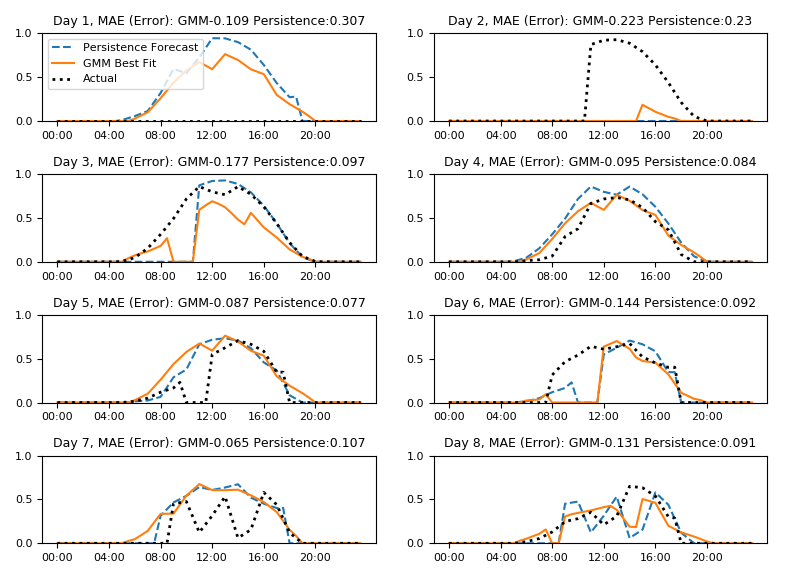
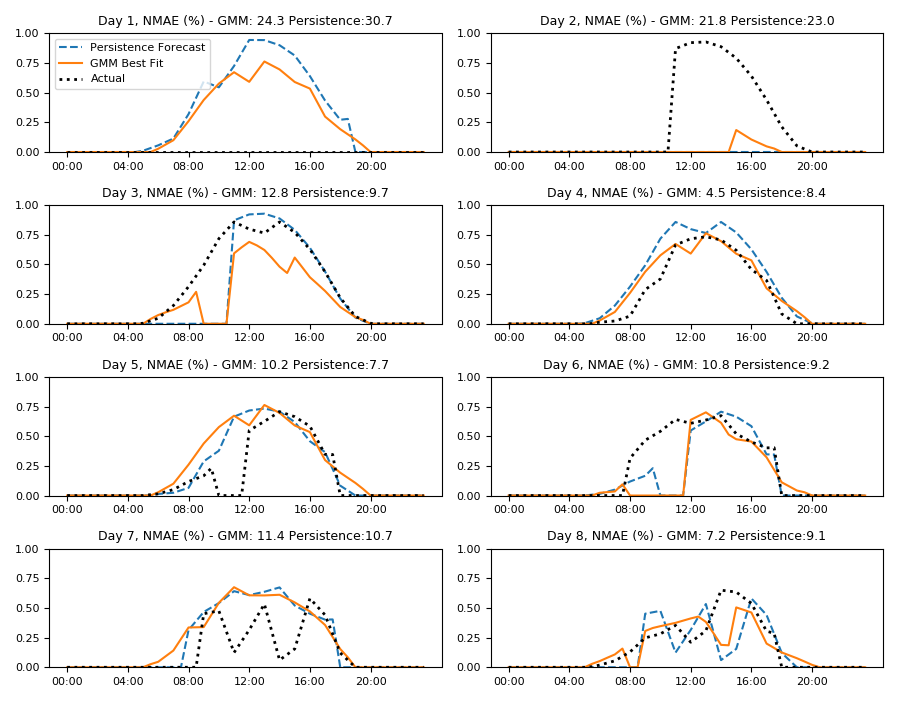
PV rev2

Changed region(s): [[0.0, 0.0, 0.9925, 0.9965], [0.812, 0.0934, 0.8421, 0.1246]]

diff --git a/Forecasting/forecasting.py b/Forecasting/forecasting.py
@@ -59,10 +59,10 @@ PV_DistsGMMWeights = pickle.load(pick_in)
 
 def forecasts(pred,true,Forecast_Type):
     if Forecast_Type=='Day Ahead':   
-        mae=mean_absolute_error(true, pred)
+        DA_Persistence_NMAE=mean_absolute_error(true, pred)
         #print('Persistence Day Ahead Weighted NMAE: ',round(mae,3))
     else:
-        mae=0
+        DA_Persistence_NMAE=0
     if (true.index[0].month==12) | (true.index[0].month<=2):      #Dec-Feb
         Season='WintDists'
     if (true.index[0].month>=3) & (true.index[0].month <=5):    #Mar-May
@@ -74,25 +74,28 @@ def forecasts(pred,true,Forecast_Type):
     
     ### fit the gaussian mixtures to the persistence forecast depending on season
     gmmMAE_Pred=pd.Series(index=range(0,len(PV_DistsGMMChosen[Season])))
+    
     for i in gmmMAE_Pred.index:
         gmmMAE_Pred[i]=mean_absolute_error(pred.values, PV_DistsGMMChosen[Season][i][0:len(pred)])
     
     gmmMAE_Pred=gmmMAE_Pred.sort_values()
-
+    ###### Choose Best Fit ##########
     GMMBestFit= PV_DistsGMMChosen[Season][gmmMAE_Pred.index[0]]#[0:Fits_Nmin]]
-    weights_bestFits=PV_DistsGMMWeights[Season][gmmMAE_Pred.index[0]]#:Fits_Nmin]]
-    weights_bestFits=weights_bestFits/weights_bestFits.sum()
-    #print('GMM ' +str(Forecast_Type)+ ' Weighted NMAE with '+str(Fits_Nmin)+' Fits: ',round(WeightedNMAE[Fits_Nmin],3))
+    ### NMAE for best fit ###########
+    GMM_NMAE = mean_absolute_error(true.values, GMMBestFit)
 
-    return GMMBestFit, gmmMAE_Pred[0],mae,Season
+    return GMMBestFit, GMM_NMAE, DA_Persistence_NMAE, Season
+
+#for h in true:
+#    pred[h]-true[h]
 
 #--------------------Visualise Forecast--------------------------#
 
     #Find best BMM fit
 def visualise_forecast(GMMBestFit,Forecast_Type,Day,GMM_NMAE,Persistence_NMAE):
-    plt.title('Day '+str(Day+1)+', MAE (Error): GMM-'+str(round(GMM_NMAE,3)),fontsize=9)
+    plt.title('Day '+str(Day+1)+', NMAE (%) - GMM: '+str(round(GMM_NMAE*100,1)),fontsize=9)
     if Forecast_Type=='Day Ahead':   
-        plt.title('Day '+str(Day+1)+', MAE (Error): GMM-'+str(round(GMM_NMAE,3))+' Persistence:'+str(round(Persistence_NMAE,3)),fontsize=9)
+        plt.title('Day '+str(Day+1)+', NMAE (%) - GMM: '+str(round(GMM_NMAE*100,1))+' Persistence:'+str(round(Persistence_NMAE*100,1)),fontsize=9)
         plt.plot(pred.values, label='Persistence Forecast',linestyle='--')
     plt.plot(GMMBestFit, label='GMM Best Fit')
     plt.plot(true.values, label='Actual', color='black', linestyle=':', linewidth=2)
@@ -119,12 +122,13 @@ days=range(0,365)
 delta = datetime.timedelta(hours=0.5)
 dt = pd.date_range(startdate, enddate, freq=delta) #datetime steps    
 n=1
-DA_WeightedNMAE=pd.Series(index=days)
-ID_WeightedNMAE=pd.Series(index=days)
+ID_GMM_NMAE=pd.Series(index=days)
+DA_GMM_NMAE=pd.Series(index=days)
 DA_PersistanceNMAE=pd.Series(index=days)
 DA_GMMBestFit={}
 ID_GMMBestFit={}
 
+DA_HH_Error=pd.DataFrame
 
 Seasons=pd.Series(index=days)
 for i in days:
@@ -132,31 +136,31 @@ for i in days:
     pred=PV_DataFrame['Alverston Close']['P_Norm'][dt[i*48:(i+1)*48]]
     true=PV_DataFrame['Alverston Close']['P_Norm'][dt[(i+1)*48:(i+2)*48]]
     Forecast_Type='Day Ahead'
-    DA_GMMBestFit[i], DA_WeightedNMAE[i],DA_PersistanceNMAE[i],Season=forecasts(pred,true,Forecast_Type)
+    DA_GMMBestFit[i], DA_GMM_NMAE[i],DA_PersistanceNMAE[i],Season=forecasts(pred,true,Forecast_Type)
 #    plt.figure(Forecast_Type)
 #    plt.subplot(420+n)
-#    visualise_forecast(DA_GMMBestFit[i],'Day Ahead',i,DA_WeightedNMAE[i],DA_PersistanceNMAE[i])
+#    visualise_forecast(DA_GMMBestFit[i],'Day Ahead',i,DA_GMM_NMAE[i],DA_PersistanceNMAE[i])
 #    if n==1:
 #        plt.legend(fontsize=8)
-    Forecast_Type='Intraday'
+#    Forecast_Type='Intraday'
 #    plt.figure(Forecast_Type)
 #    plt.subplot(420+n)
     Intraday_True=true[0:20]
-    ID_GMMBestFit[i], ID_WeightedNMAE[i],blank,Season=forecasts(Intraday_True,true,'Intraday')
-#    visualise_forecast(ID_GMMBestFit[i],'Intraday',i,ID_WeightedNMAE[i],0)
+    ID_GMMBestFit[i], ID_GMM_NMAE[i],blank,Season=forecasts(Intraday_True,true,'Intraday')
+#    visualise_forecast(ID_GMMBestFit[i],'Intraday',i,ID_GMM_NMAE[i],0)
 #    if n==1:
 #        plt.legend(fontsize=8)
 #    n=n+1
     Seasons[i]=Season
-print('Average NMAE. Day ahead Persistence: ',round(DA_PersistanceNMAE.mean(),3),'Day Ahead GMM: ',round(DA_WeightedNMAE.mean(),3),'Intraday GMM: ',round(ID_WeightedNMAE.mean(),3))
+print('Average NMAE. Day ahead Persistence: ',round(DA_PersistanceNMAE.mean()*100,2),'Day Ahead GMM: ',round(DA_GMM_NMAE.mean()*100,2),'Intraday GMM: ',round(ID_GMM_NMAE.mean()*100,2))
 
-#plt.tight_layout()
+plt.tight_layout()
 
-#Summary=pd.DataFrame(index=days, columns=['DA GMM','Persistence','ID GMM','Season'])
-#Summary['DA GMM']=DA_WeightedNMAE
-#Summary['Persistence']=DA_PersistanceNMAE
-#Summary['ID GMM']=ID_WeightedNMAE
-#Summary['Season']=Seasons
-#Summary['Season']=Summary['Season'].str[:-5]
-#Summary['Season'][Summary['Season']=='Wint']='Winter'
-#Summary.boxplot(by='Season')
+Summary=pd.DataFrame(index=days, columns=['DA GMM','Persistence','ID GMM','Season'])
+Summary['DA GMM']=DA_GMM_NMAE
+Summary['Persistence']=DA_PersistanceNMAE
+Summary['ID GMM']=ID_GMM_NMAE
+Summary['Season']=Seasons
+Summary['Season']=Summary['Season'].str[:-5]
+Summary['Season'][Summary['Season']=='Wint']='Winter'
+Summary.boxplot(by='Season')

diff --git a/Forecasting/README.md b/Forecasting/README.md
@@ -26,11 +26,14 @@ The forecasts are for the site 'Averston Close' which was removed from the train
 
 **Figure 1:** Alverston Close PV Day Ahead forecast 
 
-As the outputs are already normalised we can express the error as the Normalised Mean Absolute Error (NMAE).
+As the outputs are already normalised we can express the error as the Normalised Mean Absolute Error (NMAE);
 
-The average Day Ahead persistence NMAE across all 8 of the days above is 0.136, and the Day Ahead weighted gaussian mixture NMAE, which is created from the persistence forcast is 0.129.
+![NMAE](nmae.png)
 
-<img src="https://latex.codecogs.com/svg.latex?\Large&space;x=\frac{-b\pm\sqrt{b^2-4ac}}{2a}" title="\Large x=\frac{-b\pm\sqrt{b^2-4ac}}{2a}" />
+where: NC- Capacity, N-half hours, Pm,h-Measured output, Pp,h - Predicted
+
+The average Day Ahead persistence NMAE across all 8 of the days above is 13.6%, and the Day Ahead weighted gaussian mixture NMAE, which is created from the persistence forcast is 12.9%.
+
 
 The highest Day Ahead persistence and GMM error comes on Day 1 which has no output. Day 2 also has a very high error as it is using Day 1's output (of 0) to as its estimate when there was in fact a very high output on Day 2.
 
@@ -40,8 +43,8 @@ The intraday forecasts estimated using the first 10 hours of daily output, are v
 
 **Figure 2:** Alverston Close PV intraday forecast
 
-The average Intraday GMM forecast NMAE across all sites is 0.091. The Intraday GMM provides an improved forecast than the Day Ahead on these 8 days,
-The intraday forecast is most useful for capturing days with no output as occured on Day 1 where the error is reduced from 0.228 to 0.047 from DA to ID.
+The average Intraday GMM forecast NMAE across all sites is 9.1%. The Intraday GMM provides an improved forecast than the Day Ahead on these 8 days,
+The intraday forecast is most useful for capturing days with no output as occured on Day 1 where the error is reduced from 22.8% to 0.047 from DA to ID.
 
 ### PV Forecasting Error Box Plots
 
@@ -49,11 +52,11 @@ The forecast error is calculated over a year to give the range of expected error
 
 The Mean Absolute Errors for day ahead persistence and gaussian mixture model (GMM) as well as the GMM intraday mean errors are as follows;
 
-Method | Normalised Mean Absolute Error
+Method | Normalised Mean Absolute Error (%)
 -------|--------------------
-DA Persistence| 0.076
-DA GMM|0.086
-DA ID|0.038
+DA Persistence| 7.6
+DA GMM| 8.6
+DA ID|3.8
 
 The GMM performs slightly worse on average than the persistence forecast for DA. An obvious improvement would be to use weather forecasts (irradiance or temperature), however the level of accuracy using GMM is sufficient and the gains to be made from improving the method may not warrant the effort involved.
 
@@ -67,7 +70,7 @@ The persistence forecast has the highest maximum error in all seasons bar winter
 
 Although the GMM has a higher NMAE, and seems to perform worse than persistence DA forecast in summer, it generally has a tighter error distribution (bar summer). It is worth investigating if it tends to over or under predict, overpredicting could be useful for more conservative estimates. 
 
-The Intraday GMM forecast has much tighter error distributions particularly in summer where the maximum error is 0.14 compared to over 0.2 for the Day ahead methods (including outliers). Given that PV output is at its highest in Summer, this improved intraday forecast will be particularly useful in reducing uncertainty of network congestion caused by high PV output.
+The Intraday GMM forecast has much tighter error distributions particularly in summer where the maximum error is 14% compared to over 20% for the Day ahead methods (including outliers). Given that PV output is at its highest in Summer, this improved intraday forecast will be particularly useful in reducing uncertainty of network congestion caused by high PV output.
 
 ### PV error timeseries
 
